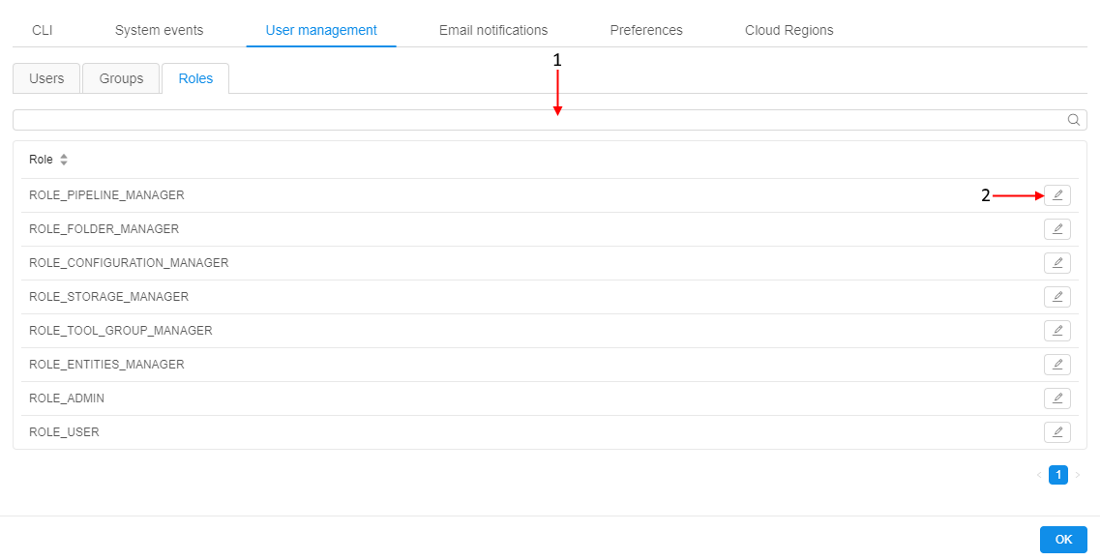
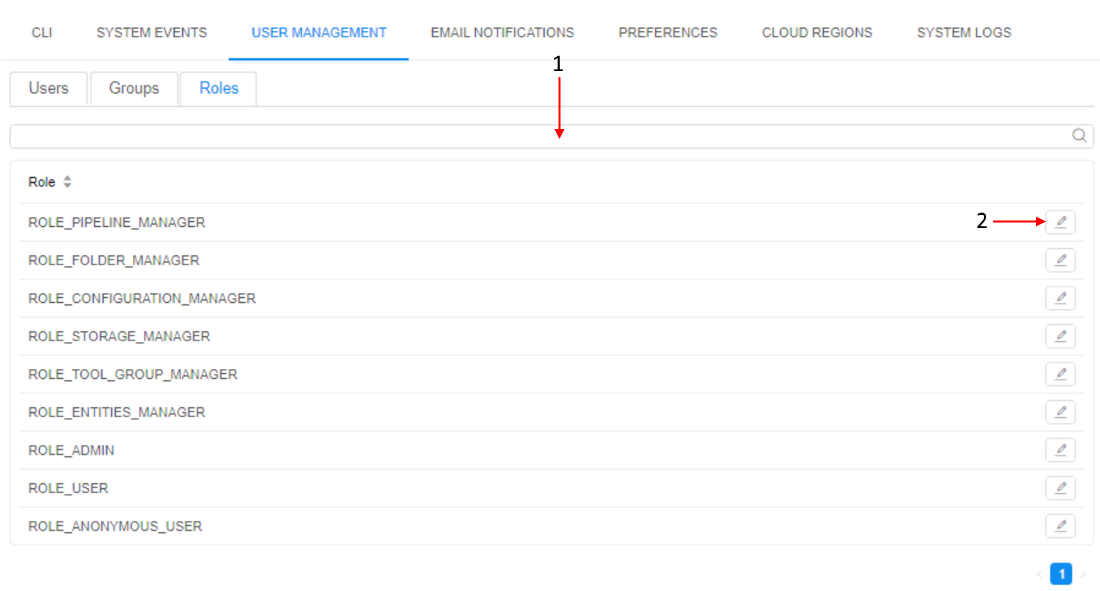
Description of 'Sharing with anonymous users' was added into RN015 and docs

diff --git a/docs/md/manual/11_Manage_Runs/11.3._Sharing_with_other_users_or_groups_of_users.md b/docs/md/manual/11_Manage_Runs/11.3._Sharing_with_other_users_or_groups_of_users.md
@@ -4,6 +4,7 @@
 - [Sharing a run with user(s)](#sharing-a-run-with-users)
 - [Sharing a run with users group(s)](#sharing-a-run-with-users-groups)
 - [Work with a sharing running instance (for not owners/admins)](#work-with-a-sharing-running-instance-for-not-ownersadmins)
+- [Sharing runs with the anonymous users](#sharing-runs-with-the-anonymous-users)
 
 ## Overview
 
@@ -91,3 +92,31 @@ If **Enable SSH connection** checkbox was set at the sharing configure form (for
     ![CP_SharingRuns](attachments/SharingRuns_17.png)  
     A new page with the **Terminal access** to the shared instance will appear:  
     ![CP_SharingRuns](attachments/SharingRuns_18.png)
+
+## Sharing runs with the anonymous users
+
+For certain use-cases, it is required to allow such type of access for any user, who has successfully passed the IdP authentication but is not registered in the Cloud Pipeline and also such users shall not be automatically registered at all and remain `Anonymous`.  
+To enable such behavior, the following application properties have to be specified before the deployment:
+
+- `saml.user.auto.create=EXPLICIT_GROUP`
+- `saml.user.allow.anonymous=true`
+
+Once anonymous access is enabled system-wide each run that requires to be accessible by `Anonymous` has to be configured to share endpoints with the following user group - `ROLE_ANONYMOUS_USER`.
+
+It could be performed in the following way:
+
+- Cloud Pipeline user launches the run whose interactive endpoint he wishes to share.
+- The user opens the **Run logs** page of the launched run
+- Then clicks the link near the **Share with** label:  
+    ![CP_SharingRuns](../../release_notes/v.0.15/attachments/RN015_EndpointToAnonymous_01.png)
+- In the opened popup clicks the corresponding button to share with a group/role:  
+    ![CP_SharingRuns](../../release_notes/v.0.15/attachments/RN015_EndpointToAnonymous_02.png)
+- In the appeared window, the user should select the `ROLE_ANONYMOUS_USER` role:  
+    ![CP_SharingRuns](../../release_notes/v.0.15/attachments/RN015_EndpointToAnonymous_03.png)
+- Sharing with the `Anonymous` will be displayed at the Run logs page:  
+    ![CP_SharingRuns](../../release_notes/v.0.15/attachments/RN015_EndpointToAnonymous_04.png)
+- The user should copy the Endpoint-link of the run and send it to the `Anonymous` user he wants to share.
+
+`Anonymous` user should open a new tab in a browser and just input the link of the sharing running instance, that he has received. If that user passes `SAML` authentication, he will get access to the endpoint. Attempts to open any other Platform pages will fail.
+
+**_Note_**: a user is treated as `Anonymous` if he is logging in and the `SAML` response is valid, but the user is not registered in the Platform and the auto-registration (of any kind) is not enabled.

diff --git a/docs/md/release_notes/v.0.15/v.0.15_-_Release_notes.md b/docs/md/release_notes/v.0.15/v.0.15_-_Release_notes.md
@@ -43,6 +43,7 @@
 - [Using custom domain names as a "friendly URL" for the interactive services](#the-ability-to-use-custom-domain-names-as-a-friendly-url-for-the-interactive-services)
 - [Displaying of the additional support icon/info](#displaying-of-the-additional-support-iconinfo)
 - [Pass proxy settings to the `DIND` containers](#pass-proxy-settings-to-the-dind-containers)
+- [Interactive endpoints can be (optionally) available to the anonymous users](#interactive-endpoints-can-be-optionally-available-to-the-anonymous-users)
 
 ***
 
@@ -830,6 +831,33 @@ Example of using:
     ![CP_v.0.15_ReleaseNotes](attachments/RN015_DINDvariations_1.png)
 
 At the same time, a new system parameter (per run) was added - **`CP_CAP_DIND_CONTAINER_NO_VARS`**, which disables described behavior. You can set it before any run if you don't want to pass any additional variations to the `DIND` container.
+
+## Interactive endpoints can be (optionally) available to the anonymous users
+
+Cloud Pipeline allows sharing the interactive and SSH endpoints with the other users/groups.
+
+Previously, this necessary required the end-user to be registered in the Cloud Pipeline users database.
+
+For certain use-cases, it is required to allow such type of access for any user, who has successfully passed the IdP authentication but is not registered in the Cloud Pipeline and also such users shall not be automatically registered at all and remain `Anonymous`.
+
+In the current version, such ability is implemented. It's enabled by the following application properties:
+
+- `saml.user.auto.create=EXPLICIT_GROUP`
+- `saml.user.allow.anonymous=true`
+
+After that, to share any interactive run with the `Anonymous` - it's simple enough to share endpoints with the following user group - `ROLE_ANONYMOUS_USER`:
+
+- At the **Run logs** page:  
+    ![CP_v.0.15_ReleaseNotes](attachments/RN015_EndpointToAnonymous_01.png)
+- The user should select the `ROLE_ANONYMOUS_USER` role to share:  
+    ![CP_v.0.15_ReleaseNotes](attachments/RN015_EndpointToAnonymous_03.png)
+- Sharing with the `Anonymous` will be displayed at the Run logs page:  
+    ![CP_v.0.15_ReleaseNotes](attachments/RN015_EndpointToAnonymous_04.png)
+- That's all. Now, the endpoint-link of the run could be sent to the `Anonymous` user.
+
+If that `Anonymous` user passes `SAML` authentication, he will get access to the endpoint. Attempts to open any other Platform pages will fail.
+
+For more details see [here](../../manual/11_Manage_Runs/11.3._Sharing_with_other_users_or_groups_of_users.md#sharing-runs-with-the-anonymous-users).
 
 ***
 

diff --git a/docs/md/manual/12_Manage_Settings/12._Manage_Settings.md b/docs/md/manual/12_Manage_Settings/12._Manage_Settings.md
@@ -150,6 +150,7 @@ There is a list of CP system roles:
 |---|---|
 | **ROLE\_ADMIN** | The user gets Read/Write/Execute/Owner permissions to all objects in the system.<br />**_Note_**: The owner of the object can manage its Access Control List. **OWNER** property is assigned to a user has created an object by default. |
 | **ROLE\_USER** | basic user. |
+| **ROLE\_ANONYMOUS\_USER** | specific role for the ability of sharing interactive runs endpoints to the `anonymous` users (users, who have successfully passed the IdP authentication but is not registered in the Cloud Pipeline). |
 | **ROLE\_PIPELINE\_MANAGER** | allows to create/delete **Pipelines** (given to each user by default). |
 | **ROLE\_FOLDER\_MANAGER** | allows to create/delete **Folders** (given to each user by default). |
 | **ROLE\_CONFIGURATION\_MANAGER** | allows to create/delete **Cluster Configurations** (given to each user by default). |
